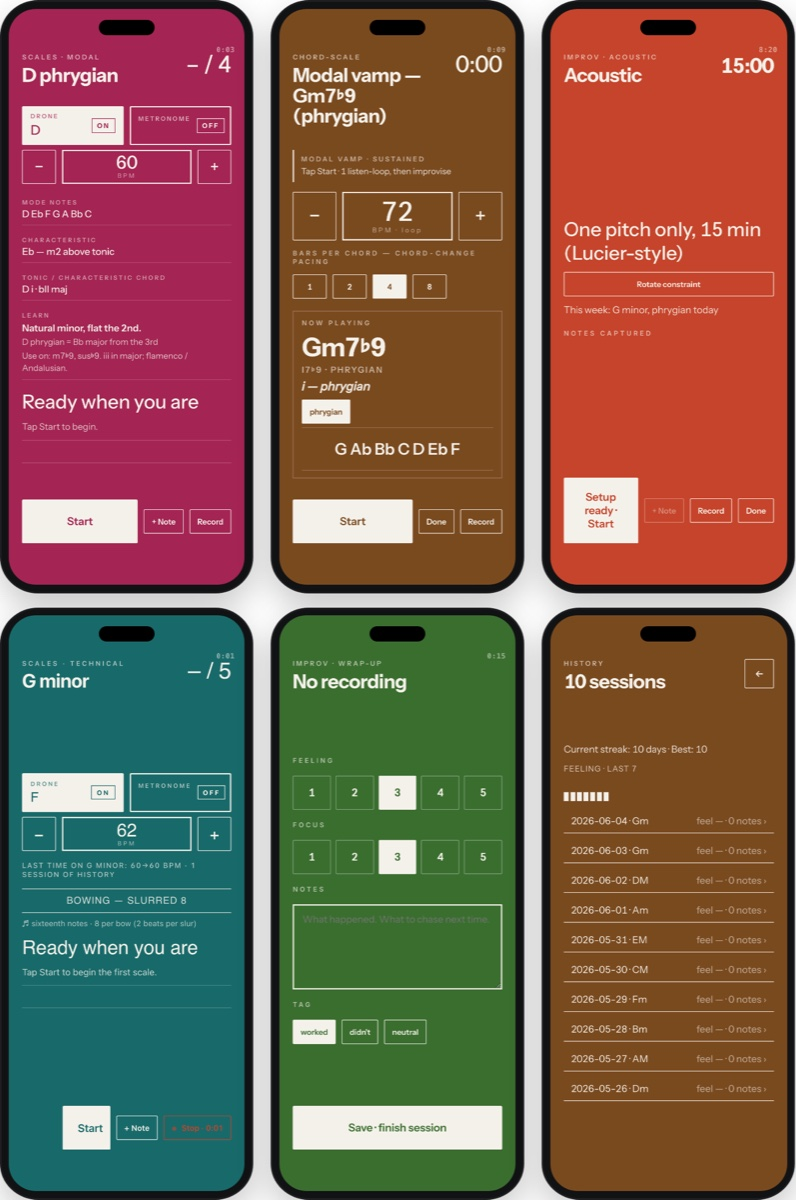
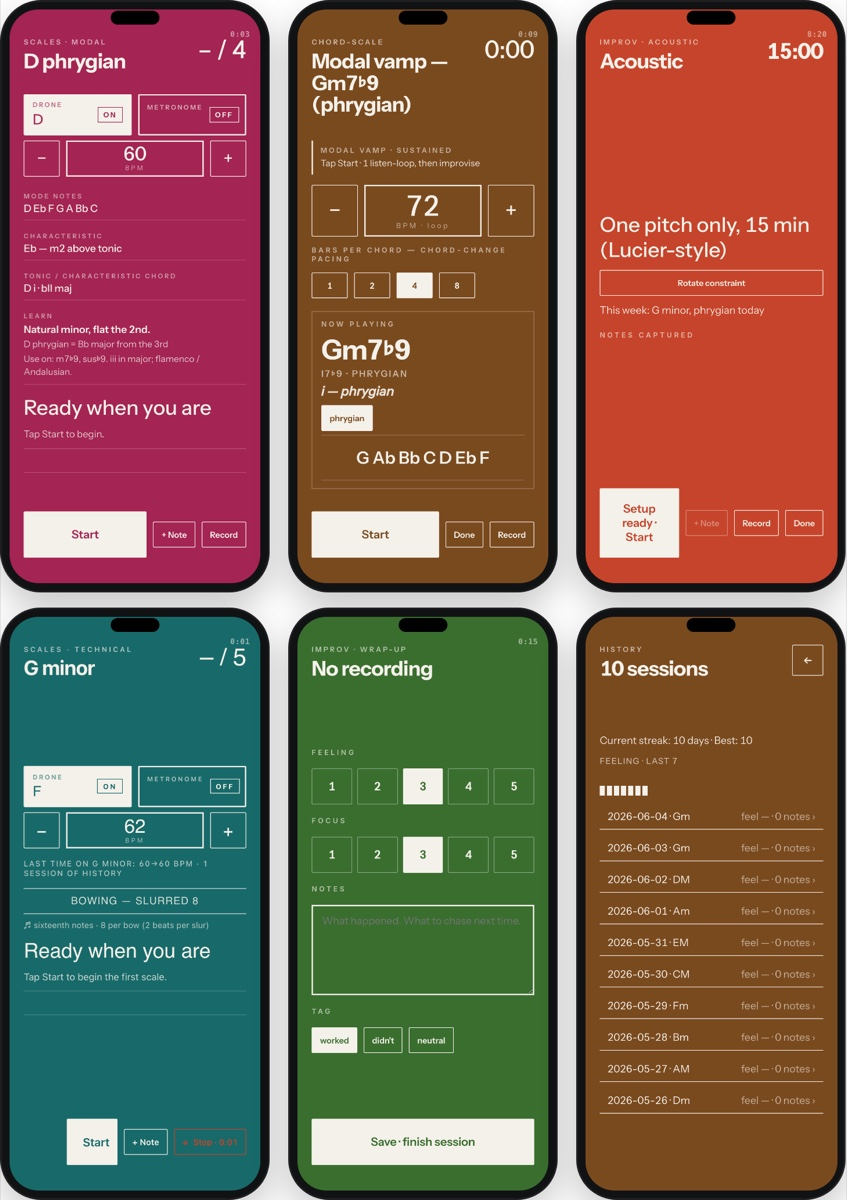
fix(log): bring the iPhone frame to real proportions (~2.20)
Equal bands big enough for the island left the phone at 2.34 — too tall.
Shrink both bands and the Dynamic Island so the framed phone lands near a
real iPhone (~2.20) while still clearing the app's top row. Regenerate the
phone-wall thumbnail to match.

diff --git a/src/content/log/micro-software.md b/src/content/log/micro-software.md
@@ -288,26 +288,26 @@ This is my art portfolio and engineering log. I work primarily with sound, so I'
     display: block;
     padding: 3.3%;
     background: #111214;
-    border-radius: 15% / 6.1%;
+    border-radius: 15% / 6.8%;
     box-shadow: 0 12px 30px rgba(0, 0, 0, 0.22), inset 0 0 0 1.5px rgba(255, 255, 255, 0.06);
   }
   .iphone img {
     box-sizing: border-box;
     display: block;
     width: 100%;
-    padding: 13.5% 0;
+    padding: 6% 0;
     background: var(--bg, #111214);
-    border-radius: 11.5% / 4.7%;
+    border-radius: 11.5% / 5%;
   }
   .log-detail-body .iphone img, .iphone-lightbox .iphone img { border: none; }
   .iphone::before {
     content: "";
     position: absolute;
-    top: 3.3%;
+    top: 1.7%;
     left: 50%;
     transform: translateX(-50%);
-    width: 22%;
-    aspect-ratio: 5 / 1.35;
+    width: 18%;
+    aspect-ratio: 5 / 1.5;
     background: #000;
     border-radius: 999px;
     z-index: 2;